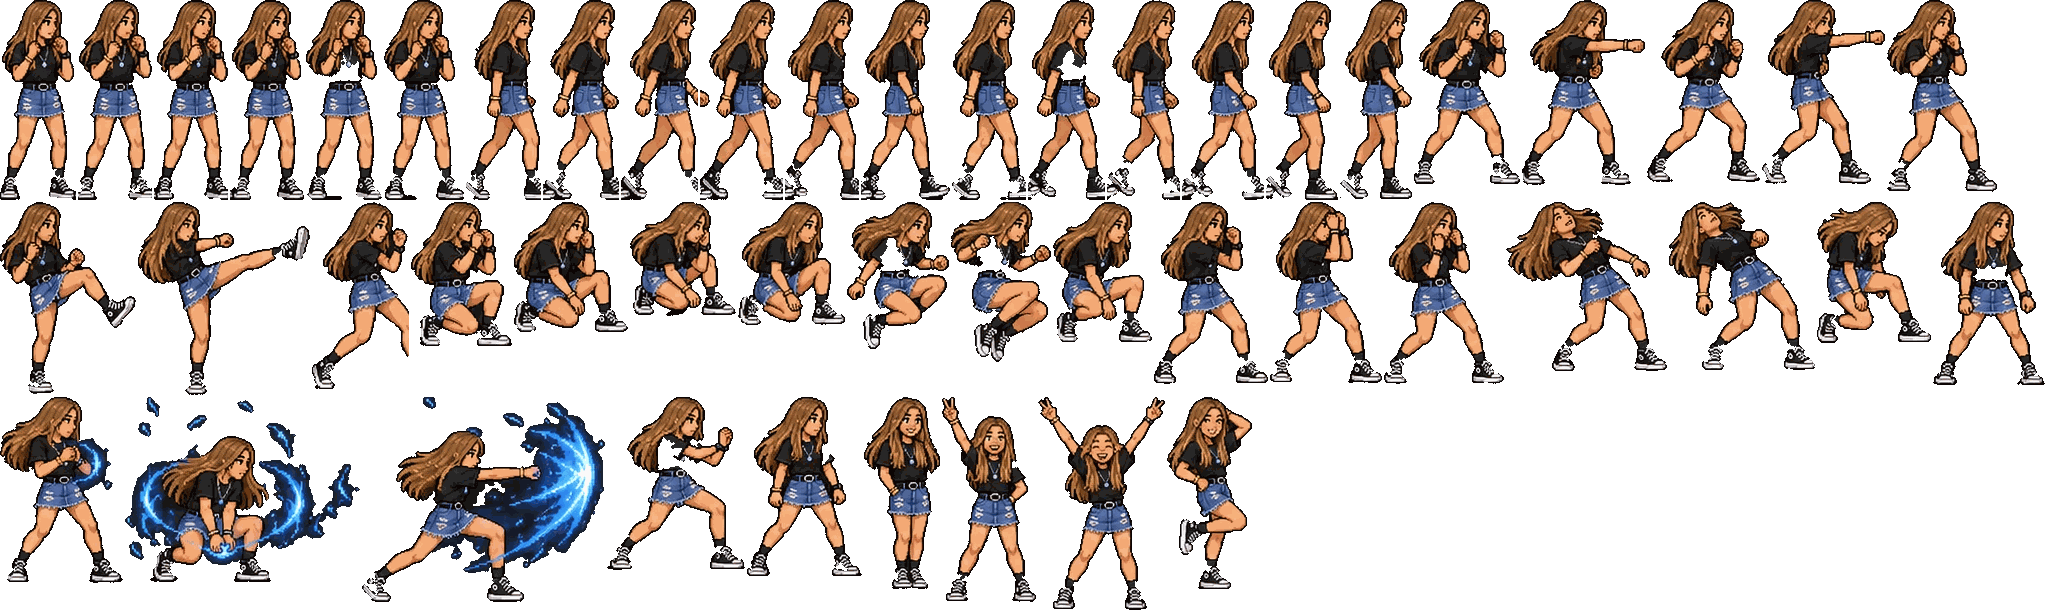
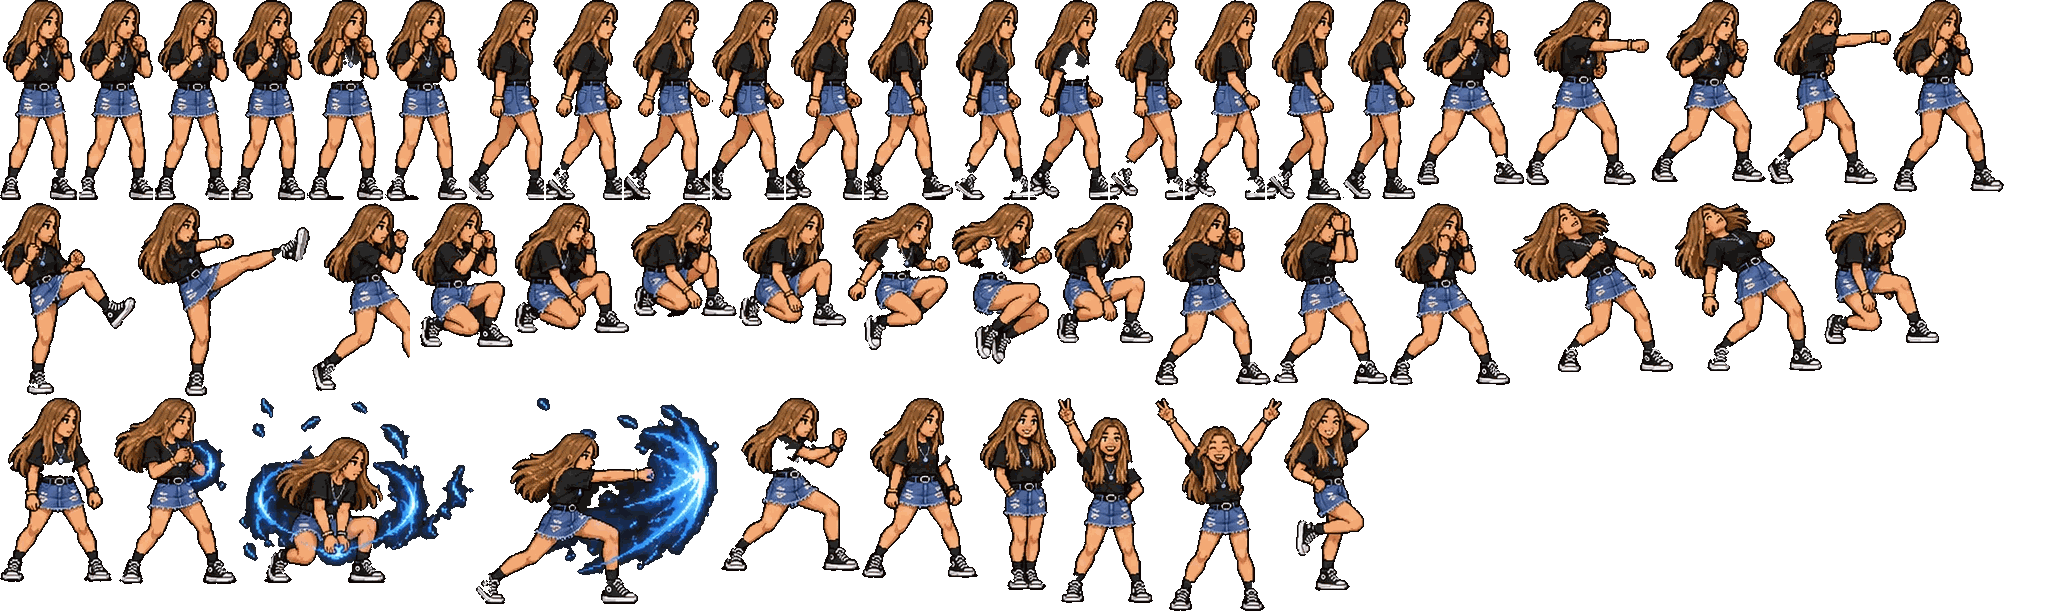
New fight sprites for Hudson; recut Sidney's without cropping
Hudson's moves come from the new sheet. Sidney's frames no longer lose
the tops of jumps, kicks, specials and victory poses to tight cutting
boxes, or the edges of her shoes to the floor-shadow cleanup.

Claude-Session: https://claude.ai/code/session_01CYk3xYTLtQ9wMMS1b1SGUS

diff --git a/game.js b/game.js
@@ -4091,7 +4091,7 @@ function drawReceipt() {
 // Sprites: assets/fight-him.png and assets/fight-her.png, cut from the move
 // sheets; both face right in the art and are mirrored to face left.
 
-const FIGHT_FRAMES = {"him":{"idle":[[0,0,89,157,43],[91,0,90,157,43],[183,0,88,157,42],[273,0,88,158,42],[363,0,89,157,43],[454,0,89,158,43]],"walkF":[[545,0,98,157,47],[645,0,84,158,40],[731,0,83,158,39],[816,0,102,157,49],[920,0,102,156,49],[1024,0,102,155,49]],"walkB":[[1128,0,100,155,46],[1230,0,84,155,39],[1316,0,83,155,39],[1401,0,89,155,43],[1492,0,90,155,43],[1584,0,95,154,45]],"punch":[[1681,0,97,150,47],[1780,0,153,145,54],[0,160,163,147,56],[165,160,102,151,50]],"kick":[[269,160,96,148,48],[367,160,97,151,52],[466,160,137,148,48],[605,160,96,149,48]],"crouch":[[703,160,90,127,44],[795,160,94,106,44],[891,160,91,132,45]],"jump":[[984,160,96,127,39],[1082,160,96,125,35],[1180,160,107,135,55],[1289,160,98,123,46]],"block":[[1389,160,88,144,42],[1479,160,95,141,45],[1576,160,91,144,43]],"hurt":[[1669,160,98,144,51],[1769,160,112,133,63],[1883,160,91,144,44]],"special":[[0,313,106,144,49],[108,313,105,145,53],[215,313,107,150,54],[324,313,102,130,51],[428,313,189,139,52],[619,313,104,135,48]],"victory":[[725,313,71,128,36],[798,313,83,128,37],[883,313,101,132,46],[986,313,90,132,43]]},"her":{"idle":[[0,0,76,200,36],[78,0,74,200,36],[154,0,74,200,37],[230,0,74,200,38],[306,0,76,200,38],[384,0,80,200,39]],"walkF":[[466,0,75,200,40],[543,0,76,200,40],[621,0,77,200,29],[700,0,83,200,37],[785,0,74,200,39],[861,0,89,200,41]],"walkB":[[952,0,74,200,38],[1028,0,77,200,38],[1107,0,73,200,37],[1182,0,82,200,39],[1266,0,72,200,36],[1340,0,72,199,37]],"punch":[[1414,0,106,184,51],[1522,0,123,185,52],[1647,0,113,182,56],[1762,0,123,184,58]],"kick":[[1887,0,110,192,59],[0,202,136,192,39],[138,202,172,193,58],[312,202,97,187,16]],"crouch":[[411,202,101,144,51],[514,202,114,130,51],[630,202,106,114,51]],"jump":[[738,202,107,123,50],[847,202,102,147,33],[951,202,100,160,42],[1053,202,99,140,48]],"block":[[1154,202,114,182,55],[1270,202,112,181,60],[1384,202,120,182,62]],"hurt":[[1506,202,161,169,105],[1669,202,146,168,92],[1817,202,114,141,52]],"special":[[1933,202,112,183,55],[0,397,123,186,67],[125,397,235,185,83],[362,397,243,205,91],[607,397,138,173,72],[747,397,115,179,55]],"victory":[[864,397,76,192,44],[942,397,94,205,49],[1038,397,127,213,62],[1167,397,85,192,44]]}};
+const FIGHT_FRAMES = {"him":{"idle":[[0,0,80,161,39],[82,0,74,160,36],[158,0,75,159,36],[235,0,73,165,37],[310,0,81,159,40],[393,0,78,163,38],[473,0,79,165,38]],"walkF":[[554,0,91,160,45],[647,0,92,160,46],[741,0,89,164,44],[832,0,95,163,47],[929,0,97,163,49],[1028,0,95,163,48]],"walkB":[[1125,0,87,158,43],[1214,0,86,157,42],[1302,0,82,157,40],[1386,0,91,158,46],[1479,0,91,158,47],[1572,0,90,158,44],[1664,0,86,158,46]],"punch":[[1752,0,111,156,55],[1865,0,146,156,56],[0,167,130,156,58],[132,167,176,157,68]],"kick":[[310,167,104,154,51],[416,167,116,150,44],[534,167,131,160,48],[667,167,133,159,46]],"crouch":[[802,167,90,149,44],[894,167,92,103,43],[988,167,90,107,44]],"jump":[[1080,167,95,144,30],[1177,167,97,136,35],[1276,167,90,145,11],[1368,167,125,103,64]],"block":[[1495,167,86,143,43],[1583,167,85,143,41],[1670,167,84,143,41]],"hurt":[[1756,167,100,141,57],[1858,167,95,139,52],[1955,167,76,113,35]],"special":[[0,329,77,152,37],[79,329,96,130,46],[177,329,111,133,50],[290,329,139,159,65],[431,329,174,145,52],[607,329,178,150,55]],"victory":[[787,329,79,154,38],[868,329,84,153,41],[954,329,133,156,69],[1089,329,89,156,41]]},"her":{"idle":[[0,0,77,200,38],[79,0,74,200,38],[155,0,74,200,37],[231,0,74,201,37],[307,0,76,200,39],[385,0,82,201,40]],"walkF":[[469,0,75,200,38],[546,0,76,200,39],[624,0,86,201,44],[712,0,72,200,36],[786,0,76,200,37],[864,0,89,200,41]],"walkB":[[955,0,73,200,37],[1030,0,78,200,38],[1110,0,73,200,36],[1185,0,80,200,37],[1267,0,74,200,36],[1343,0,72,199,35]],"punch":[[1417,0,107,185,52],[1526,0,123,185,54],[1651,0,115,182,56],[1768,0,123,184,54]],"kick":[[1893,0,111,192,56],[0,203,136,192,39],[138,203,172,193,58],[312,203,98,188,16]],"crouch":[[412,203,101,144,52],[515,203,114,130,52],[631,203,106,114,52]],"jump":[[739,203,107,123,50],[848,203,102,147,33],[952,203,100,161,42],[1054,203,99,140,48]],"block":[[1155,203,116,182,57],[1273,203,115,181,60],[1390,203,120,182,61]],"hurt":[[1512,203,161,169,104],[1675,203,147,168,92],[1824,203,115,141,52]],"special":[[0,398,112,184,56],[114,398,123,186,66],[239,398,235,185,83],[476,398,243,206,90],[721,398,139,173,73],[862,398,116,180,57]],"victory":[[980,398,76,192,44],[1058,398,95,205,49],[1155,398,127,213,61],[1284,398,85,193,45]]}};
 const fightImgs = { him: loadImage('assets/fight-him.png'), her: loadImage('assets/fight-her.png') };
 const fightBg = loadImage('assets/fight-bg.jpg');
 const FW = 960; // the fight is drawn at this size, then scaled to the screen
@@ -4453,7 +4453,7 @@ function fighterFrame(f) {
     case 'land': return fr.jump[3];
     case 'punch': case 'kick': case 'special': return fr[f.state][Math.min(n(f.state) - 1, Math.floor(f.t * MOVES[f.state].fps))];
     case 'hurt': return fr.hurt[Math.min(1, Math.floor(f.t * 10))];
-    case 'ko': return fr.hurt[f.who === 'her' ? 2 : 1];
+    case 'ko': return fr.hurt[2];
     case 'victory': return loop('victory', 5);
     default: return loop('idle', 7);
   }
